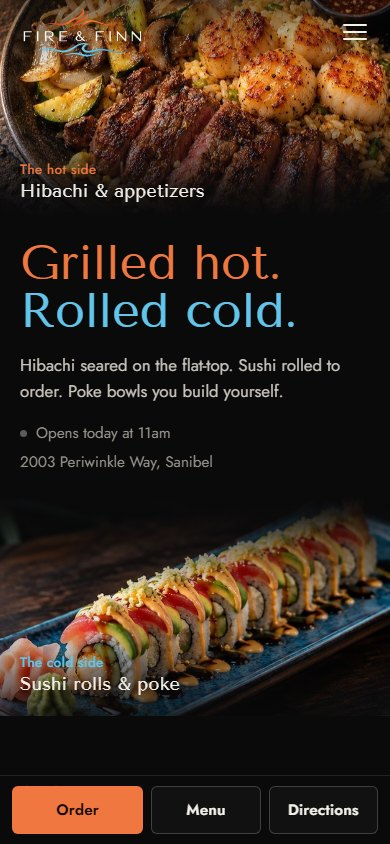
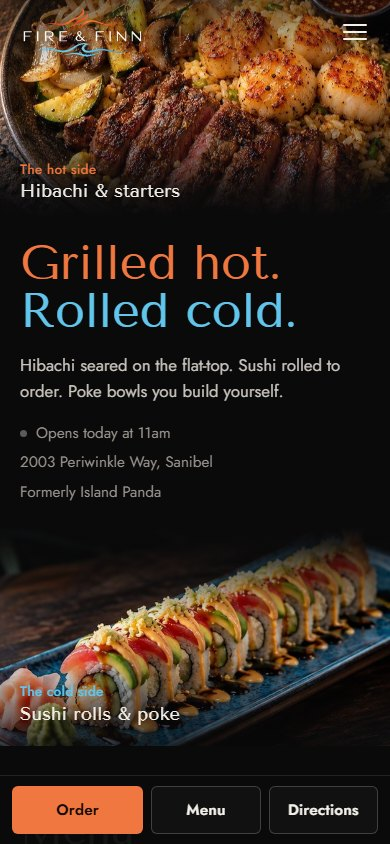
Board changes: starters on the hot label, a plainer cold-side intro, Formerly Island Panda twice, an inert map fallback
- Hero hot label reads "Hibachi & starters" (three of the six appetizers are salads; the menu header stays "Appetizers")
- Menu intro: "the cold side rolls sushi and builds bowls." instead of "rolls and builds to order"
- "Formerly Island Panda" in the hero meta row after the address and under the address in Visit, both at the muted size
- The map's fallback link took keyboard focus beneath the loaded iframe; it is made inert when the iframe loads
- Tab pass at 1440 (34 stops, reading order, nothing trapped) and a 390 shot of the dark map (legible, filter kept)
- Cache-bust v=11 on index and 404; after-shots and REPORT.md updated; menu text byte-identical

diff --git a/index.html b/index.html
@@ -30,7 +30,7 @@
   <link rel="preload" href="assets/fonts/Jost-500.woff2" as="font" type="font/woff2" crossorigin>
   <link rel="preload" as="image" href="assets/food/hero-hibachi.jpg" imagesrcset="assets/food/hero-hibachi-640.jpg 640w, assets/food/hero-hibachi.jpg 1024w" imagesizes="(min-width: 900px) 50vw, 100vw" fetchpriority="high">
   <link rel="preload" as="image" href="assets/food/fire-and-finn-roll.jpg" imagesrcset="assets/food/fire-and-finn-roll-640.jpg 640w, assets/food/fire-and-finn-roll-1024.jpg 1024w, assets/food/fire-and-finn-roll.jpg 1536w" imagesizes="(min-width: 900px) 50vw, 100vw" fetchpriority="high">
-  <link rel="stylesheet" href="styles.css?v=10">
+  <link rel="stylesheet" href="styles.css?v=11">
   <script>document.documentElement.classList.add("js");</script>
 
   <script type="application/ld+json">
@@ -91,7 +91,7 @@
     <a class="half hot" href="#hibachi" aria-label="Hibachi and appetizers, the hot side of the menu">
       <img src="assets/food/hero-hibachi.jpg" srcset="assets/food/hero-hibachi-640.jpg 640w, assets/food/hero-hibachi.jpg 1024w" sizes="(min-width: 900px) 50vw, 100vw" alt="Steak and scallops hibachi over fried rice with mushrooms, zucchini, onion and bean sprouts, yum yum sauce and garlic steak sauce on the side" width="1024" height="1536" fetchpriority="high" decoding="async">
       <span class="embers" aria-hidden="true"></span>
-      <span class="half-label"><span class="half-k">The hot side</span><span class="half-t">Hibachi &amp; appetizers</span></span>
+      <span class="half-label"><span class="half-k">The hot side</span><span class="half-t">Hibachi &amp; starters</span></span>
     </a>
     <a class="half cold" href="#rolls" aria-label="Sushi rolls and poke, the cold side of the menu">
       <img src="assets/food/fire-and-finn-roll.jpg" srcset="assets/food/fire-and-finn-roll-640.jpg 640w, assets/food/fire-and-finn-roll-1024.jpg 1024w, assets/food/fire-and-finn-roll.jpg 1536w" sizes="(min-width: 900px) 50vw, 100vw" alt="The Fire &amp; Finn roll: tempura shrimp, cucumber and eel inside, tuna, avocado and tempura flakes on top, eel sauce and spicy mayo" width="1536" height="1024" fetchpriority="high" decoding="async">
@@ -107,6 +107,7 @@
       <p class="status" id="status">
         <span><span class="dot"></span><span id="status-text">Open daily 11am–8pm</span></span>
         <span>2003 Periwinkle Way, Sanibel</span>
+        <span>Formerly Island Panda</span>
       </p>
     </div>
   </section>
@@ -116,7 +117,7 @@
     <div class="wrap menu-head">
       <div>
         <h2 id="menu-title">Menu</h2>
-        <p class="menu-intro">One kitchen, two temperatures. The hot side runs the grill; the cold side rolls and builds to order.</p>
+        <p class="menu-intro">One kitchen, two temperatures. The hot side runs the grill; the cold side rolls sushi and builds bowls.</p>
       </div>
       <div class="menu-tools">
         <span class="legend">Items marked <span class="raw">*</span> are served raw or undercooked</span>
@@ -355,7 +356,7 @@
         <p class="visit-lead">In Tahitian Gardens on Periwinkle Way, the main road through Sanibel.</p>
         <dl>
           <dt>Hours</dt><dd>Every day, 11am to 8pm</dd>
-          <dt>Address</dt><dd><a href="https://www.google.com/maps/dir/?api=1&amp;destination=2003+Periwinkle+Way,+Sanibel,+FL+33957" target="_blank" rel="noopener">2003 Periwinkle Way<br>Sanibel, FL 33957</a></dd>
+          <dt>Address</dt><dd><a href="https://www.google.com/maps/dir/?api=1&amp;destination=2003+Periwinkle+Way,+Sanibel,+FL+33957" target="_blank" rel="noopener">2003 Periwinkle Way<br>Sanibel, FL 33957</a><span class="formerly">Formerly Island Panda</span></dd>
           <dt>Phone</dt><dd><a href="tel:+12395790783">(239) 579-0783</a></dd>
         </dl>
         <div class="cta left">
@@ -400,6 +401,6 @@
   <a class="btn btn-ghost" href="https://www.google.com/maps/dir/?api=1&amp;destination=2003+Periwinkle+Way,+Sanibel,+FL+33957" target="_blank" rel="noopener">Directions</a>
 </nav>
 
-<script src="app.js?v=10"></script>
+<script src="app.js?v=11"></script>
 </body>
 </html>

diff --git a/styles.css b/styles.css
@@ -356,6 +356,7 @@ h1, h2, h3 { text-wrap: balance; }
 .visit dt { border-bottom: 1px solid var(--line); }
 .visit dd a { display: inline-block; text-underline-offset: 4px; text-decoration-color: var(--line-strong); transition: text-decoration-color .2s var(--ease); }
 .visit dd a:hover { text-decoration-color: currentColor; }
+.visit .formerly { display: block; margin-top: 6px; color: var(--dim); font-size: .92rem; }
 .visit-grid > *, .cols > *, .group > * { min-width: 0; }   /* grid items never widen the page */
 .map { position: relative; overflow: hidden; border-radius: 4px; border: 1px solid var(--line); background: #111; aspect-ratio: 4 / 3; }
 .map iframe { position: absolute; inset: 0; width: 100%; height: 100%; border: 0; display: block; z-index: 1; filter: invert(.92) hue-rotate(180deg) saturate(.6) contrast(.95) brightness(.95); }

diff --git a/app.js b/app.js
@@ -211,4 +211,9 @@ const HOURS = { open: 11, close: 20 };
       social.appendChild(a);
     });
   }
+
+  // Once Google has drawn the map, the fallback panel sits beneath it; take it out of the tab order so focus never lands on something hidden.
+  const mapFrame = document.querySelector(".map iframe");
+  const mapFallback = document.querySelector(".map-fallback");
+  if (mapFrame && mapFallback) mapFrame.addEventListener("load", () => { mapFallback.setAttribute("inert", ""); mapFallback.setAttribute("aria-hidden", "true"); });
 })();

diff --git a/404.html b/404.html
@@ -7,7 +7,7 @@
   <meta name="robots" content="noindex">
   <meta name="theme-color" content="#0a0a0b">
   <link rel="icon" type="image/png" sizes="32x32" href="/assets/favicon-32.png">
-  <link rel="stylesheet" href="/styles.css?v=10">
+  <link rel="stylesheet" href="/styles.css?v=11">
   <script>document.documentElement.classList.add("js");</script>
 </head>
 <body>

diff --git a/review/site-creative/REPORT.md b/review/site-creative/REPORT.md
@@ -125,6 +125,28 @@ Judged fine as is, after looking hard:
 Overflow metrics after this pass: 0 at all three sizes; page heights 9,055 / 7,111 / 6,631px (were 9,494 / 8,545 / 6,631).
 Menu text identical: 88 of 88 items, headings, notes and the advisory.
 
+## Board changes (after Nick's advisors read the third pass)
+
+Conditional ship: three copy changes and two checks, one commit on top of the third pass.
+
+23. **"Hibachi & starters"** is the hot side's hero label (was "appetizers"; three of the six appetizers are salads).
+    The menu section header stays "Appetizers" as printed.
+24. **The menu intro** now reads "the cold side rolls sushi and builds bowls." (was "rolls and builds to order",
+    which sounded like a claim). Same sense, nothing promised.
+25. **"Formerly Island Panda"** twice, so a returning customer learns in one glance that it is the same kitchen: in the
+    hero meta row after the address, at the same muted size, and under the address in Visit as a dim line at the
+    label size. Nowhere else; title, description and structured data unchanged per the board's "no other copy changes".
+26. **Tab pass at 1440**, pressing Tab until focus wrapped: 34 stops. Skip link, brand, the four nav links, header Order;
+    hero hot side, hero cold side, hero Order and See the menu; menu PDF and Order; the six category anchors; Order band
+    Order and Call; Visit address, phone, Get Directions, Call Us, the map; footer links, address and phone. Nothing
+    trapped, nothing skipped (the menu itself has no interactive elements). One fix came out of it: the map's fallback
+    link sat beneath the loaded iframe and took focus invisibly; the fallback is now made inert when the iframe loads.
+27. **The 390 map**, shot after the embed painted: road names, the house number, the pin, Google's controls and the
+    attribution all read through the dark filter, so the filter stays.
+28. Cache-bust `?v=11` on both pages, since styles and app.js changed.
+
+Overflow after this pass: 0 at all three sizes; page heights 9,140 / 7,140 / 6,656px. Menu text identical: 88 of 88 items and the advisory.
+
 ## Considered and rejected
 
 - A hard vertical seam between the two hero photographs: reads as a before/after slider. Soft masks into a dark valley instead.
@@ -154,20 +176,18 @@ Menu text identical: 88 of 88 items, headings, notes and the advisory.
 1. **Hero photographs are the AI stand-ins.** They now carry the whole first screen. When real photography arrives, the hot
    slot wants a portrait-ish plate shot with dark surroundings on its right; the cold slot wants a landscape roll or
    plate with dark surroundings on its left. Both are preloaded; real exports should be around 1200px and under 150KB each.
-2. **"Hibachi & appetizers" as the hot side's label.** Three of the six appetizers are salads. "Hibachi & starters" or
-   just "Hibachi" would also work; the owner should pick.
-3. **"the cold side rolls and builds to order"** in the menu intro. Rolled to order was already on the site; "builds to
-   order" assumes poke bowls are assembled when ordered. Confirm or cut to "the cold side rolls and builds."
-4. **The Spicy Lava Drops caption** on the specialty-rolls photograph names the dish in the picture. The file was generated
+2. **The Spicy Lava Drops caption** on the specialty-rolls photograph names the dish in the picture. The file was generated
    as that dish; the owner should agree it looks like theirs.
-5. **The map** loads from Google when online and is shown dark through a CSS filter; check it on a real phone, and if Google changes the embed's palette the filter may need retuning.
-6. **Hours in Visit are written out** ("Every day, 11am to 8pm"); the live open/closed line is in the hero and the Order band.
-7. **Window heights under about 640px on desktop** keep the hero at 640px, so a very short laptop window scrolls slightly to
+3. **The map** loads from Google when online and is shown dark through a CSS filter; check it on a real phone, and if Google changes the embed's palette the filter may need retuning.
+4. **Hours in Visit are written out** ("Every day, 11am to 8pm"); the live open/closed line is in the hero and the Order band.
+5. **Window heights under about 640px on desktop** keep the hero at 640px, so a very short laptop window scrolls slightly to
    see the side labels. Acceptable, but worth a look on a 13-inch screen.
-9. **No Order button inside the phone hero.** The bottom bar is the order button on phones; if the owner wants one in the
+6. **The Toast link opens in a new tab**, as before.
+7. **No Order button inside the phone hero.** The bottom bar is the order button on phones; if the owner wants one in the
    hero as well, delete the `@media (max-width: 759px) { .hero .cta { display: none; } }` rule and the cold picture drops
    below the fold again on an 844px-tall phone.
-8. **The Toast link opens in a new tab**, as before.
+8. **"Formerly Island Panda"** is on the page twice (hero meta row, Visit address) and nowhere machine-readable. If search
+   should also connect the two names, `alternateName` in the JSON-LD is the place; the board asked for no other copy changes.
 
 ## Files
 
@@ -175,5 +195,5 @@ Menu text identical: 88 of 88 items, headings, notes and the advisory.
 - `assets/food/*-640.jpg`, `*-1024.jpg`: resized variants of the six photographs (same pictures, smaller).
 - `styles.css`: rewritten.
 - `app.js`: settings block untouched; reveal logic removed; category-row indicator added; embers now live in the hot half.
-- `404.html`: restyled; `?v=10`.
+- `404.html`: restyled; `?v=11`.
 - `README.md`: file list updated.
